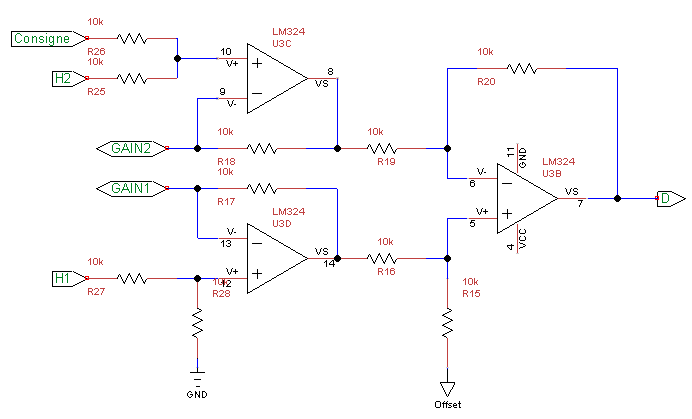
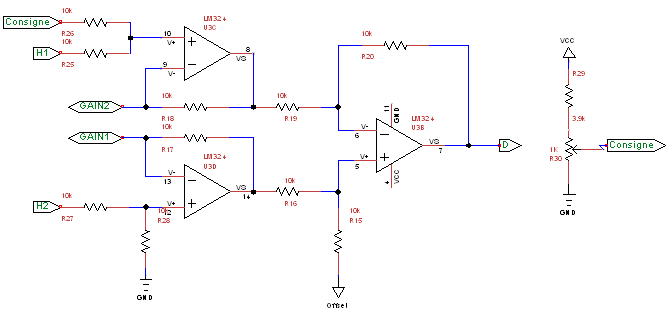
Complément sur le montage différentiel

diff --git a/trunk/Rapports/SolutionAnalogique.tex b/trunk/Rapports/SolutionAnalogique.tex
@@ -95,12 +95,18 @@ Ce montage n'est pas réalisé de manière intégré ce qui dégrade ces perform
 L'étude du schema donne la relation suivante : $V_s=(1+2 \frac{R}{R0})(V_1-V_2) + V_{offset}$. La mesure de la tension maximale de sortie permet de régler la valeur de l'offset, $V_{offset}=\frac{V_{max}}{2}$, $V_{max}=3.7$V. Cela permet de maximiser les variations du signal en le centrant sur la plage de sortie de l'AOP.
 
 \subsection{Consigne Analogique}
-La conception initiale ne prévoyait pas de consigne analogique mais seulement une consigne numérique. Il s'est avéré intéressant d'ajouter une consigne analogique car elle permet de maximiser l'amplitude pour l'aquisition dans le microcontroller conjointement avec l'offset.
+La conception initiale ne prévoyait pas de consigne analogique, seulement une consigne numérique. Il s'est avéré intéressant d'ajouter une consigne analogique pour plusieurs raisons, elle permet de générer l'erreur et de travailler centré sur l'offset en sortie du montage différentiel. Cela permet de maximier la plage du signal pour la numérisation.
 
-L'ajout de la consigne 
+La consigne est ajouté en prenant avantage du montage différentiel, sur l'entrée inverseuse du montage, deux signaux sont sommés, la consigne et le capteur $H1$. Le champ magnétique mesuré par $H1$ est plus faible que celui de $H2$ donc $H2-H1>0$. L'ajout de la consigne permet d'annuler cette tension pour une position du mobile, la tension de sortie est alors celle de l'offset.
+\begin{center}
+$V_s=\frac{1}{2}(1+2 \frac{R}{R0})(H2-H1-Consigne) + V_{offset}$
+\hspace{1cm}$Consigne = (H2-H1)_{15mm}$
+\end{center}
 
+Le sommateur en entré induit une division des tensions. La tension du capteur H2 est également divisé via un pont. Cela est possible grâce à la faible impédence de sortie est capteur. La génération de consigne respecte cette contraite, $R_{eq_{Consigne}} \ll R_{26}$. Pour faciliter le réglage, la course du potentiomètre varie de 0 à 1V qui est suffisant pour annuler $H2-H1$. Ce gain d'entré est compensé avec le gain du montage différentiel. 
 \begin{figure}[h!]
-  \includegraphics{SolutionAnalogique/AmpInstCons}
+  \center
+  \includegraphics[width=\linewidth]{SolutionAnalogique/AmpInstCons}
   \label{}
   \caption{Différentiel avec consigne}
 \end{figure}
